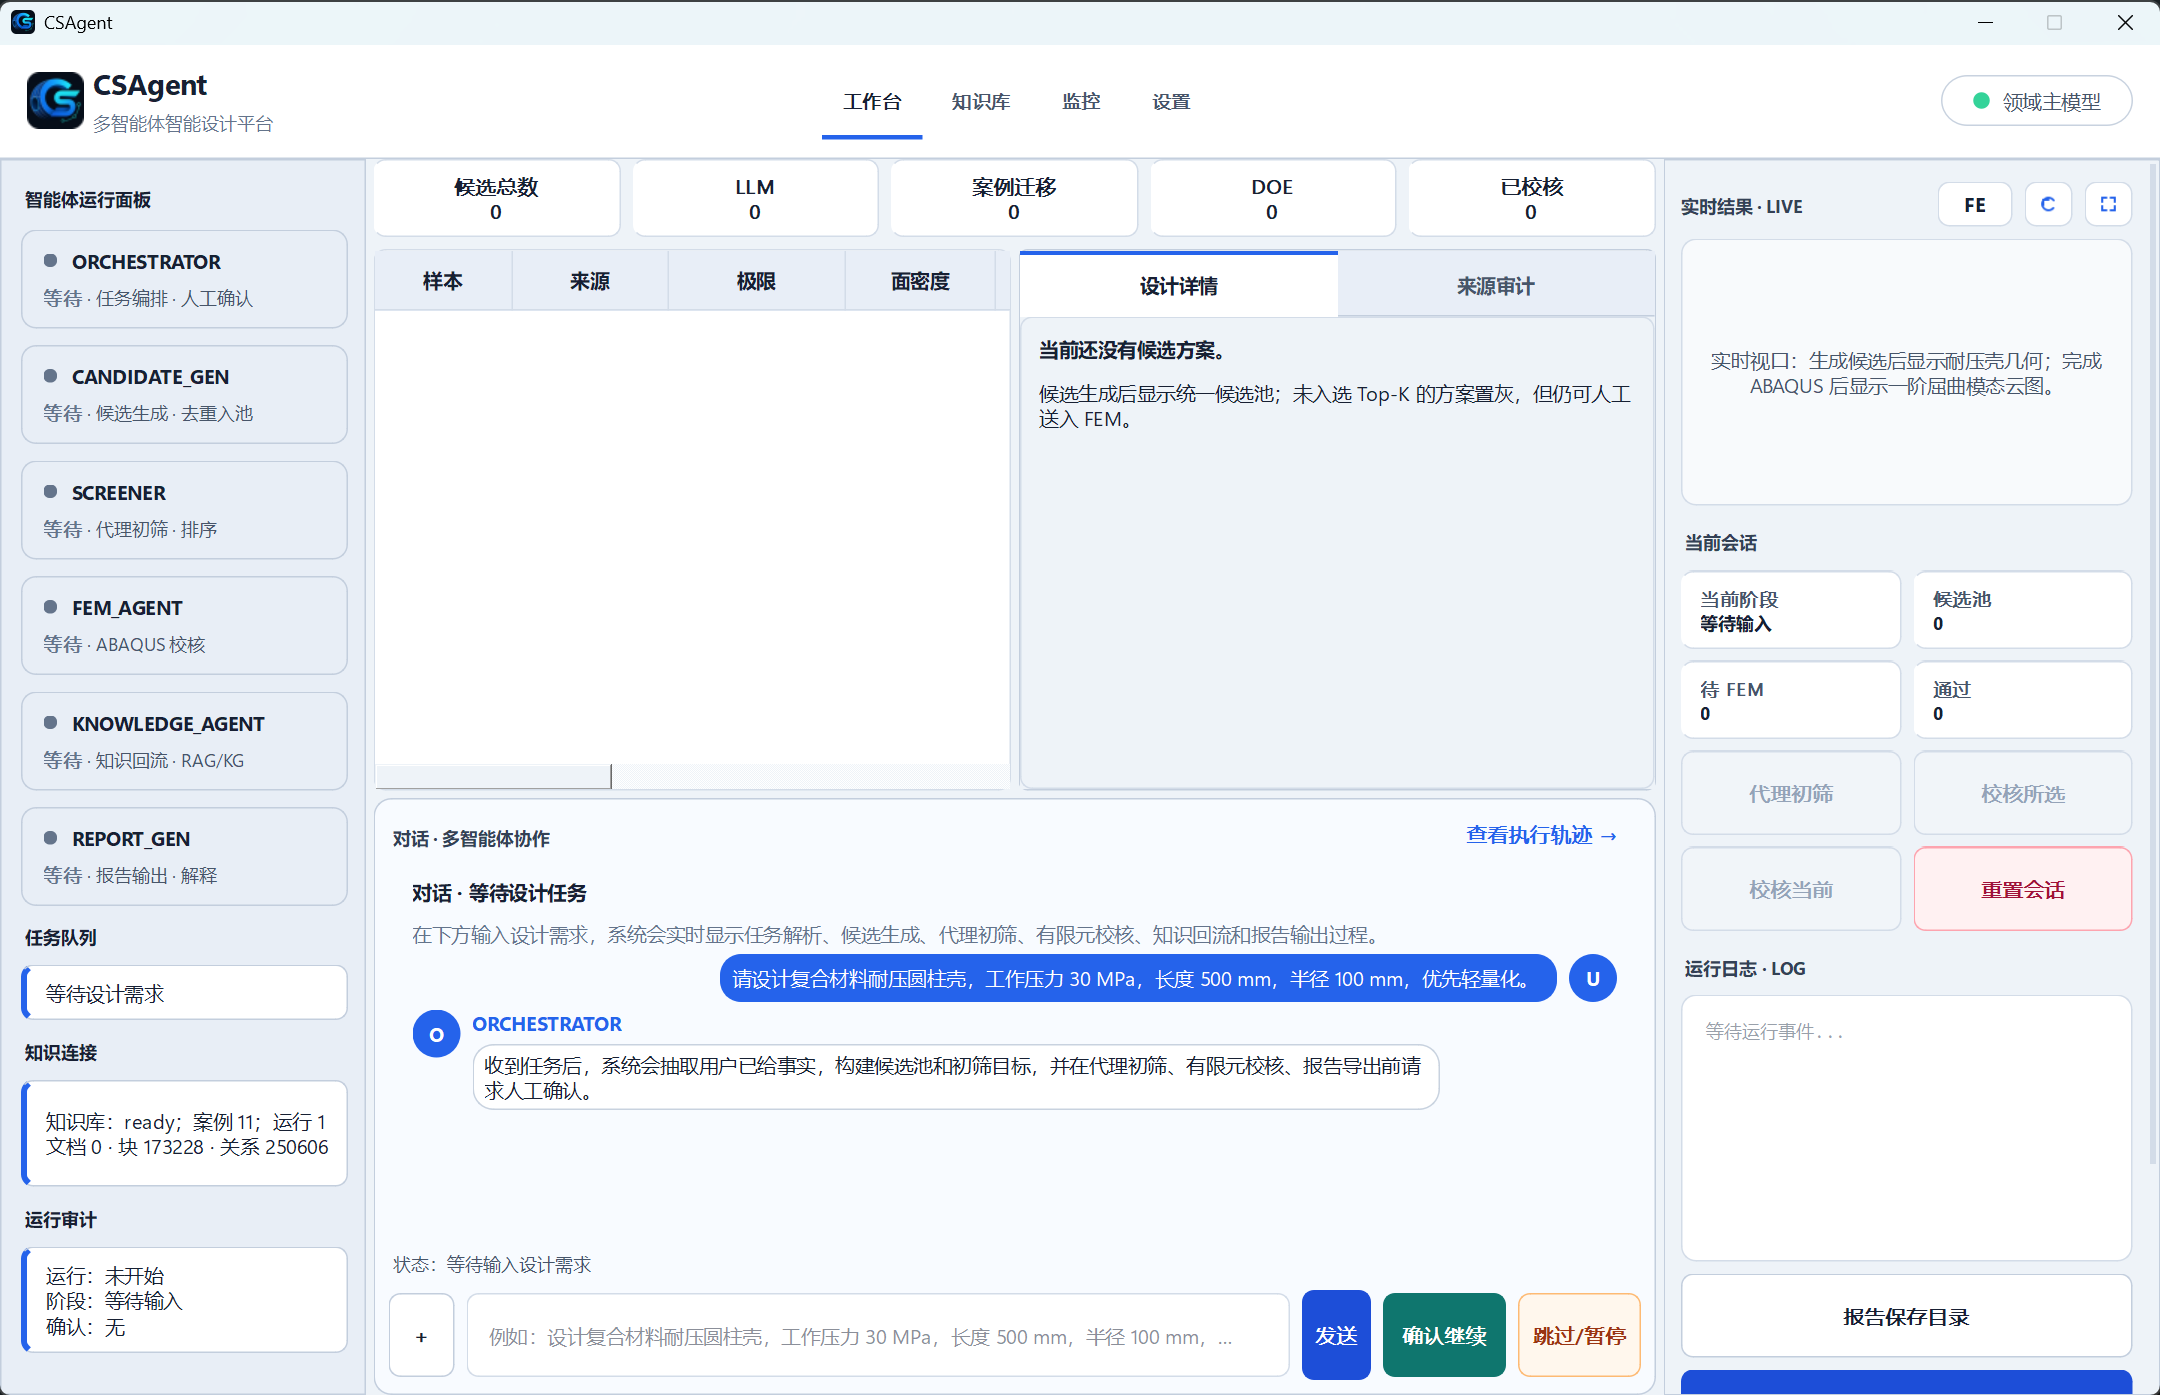
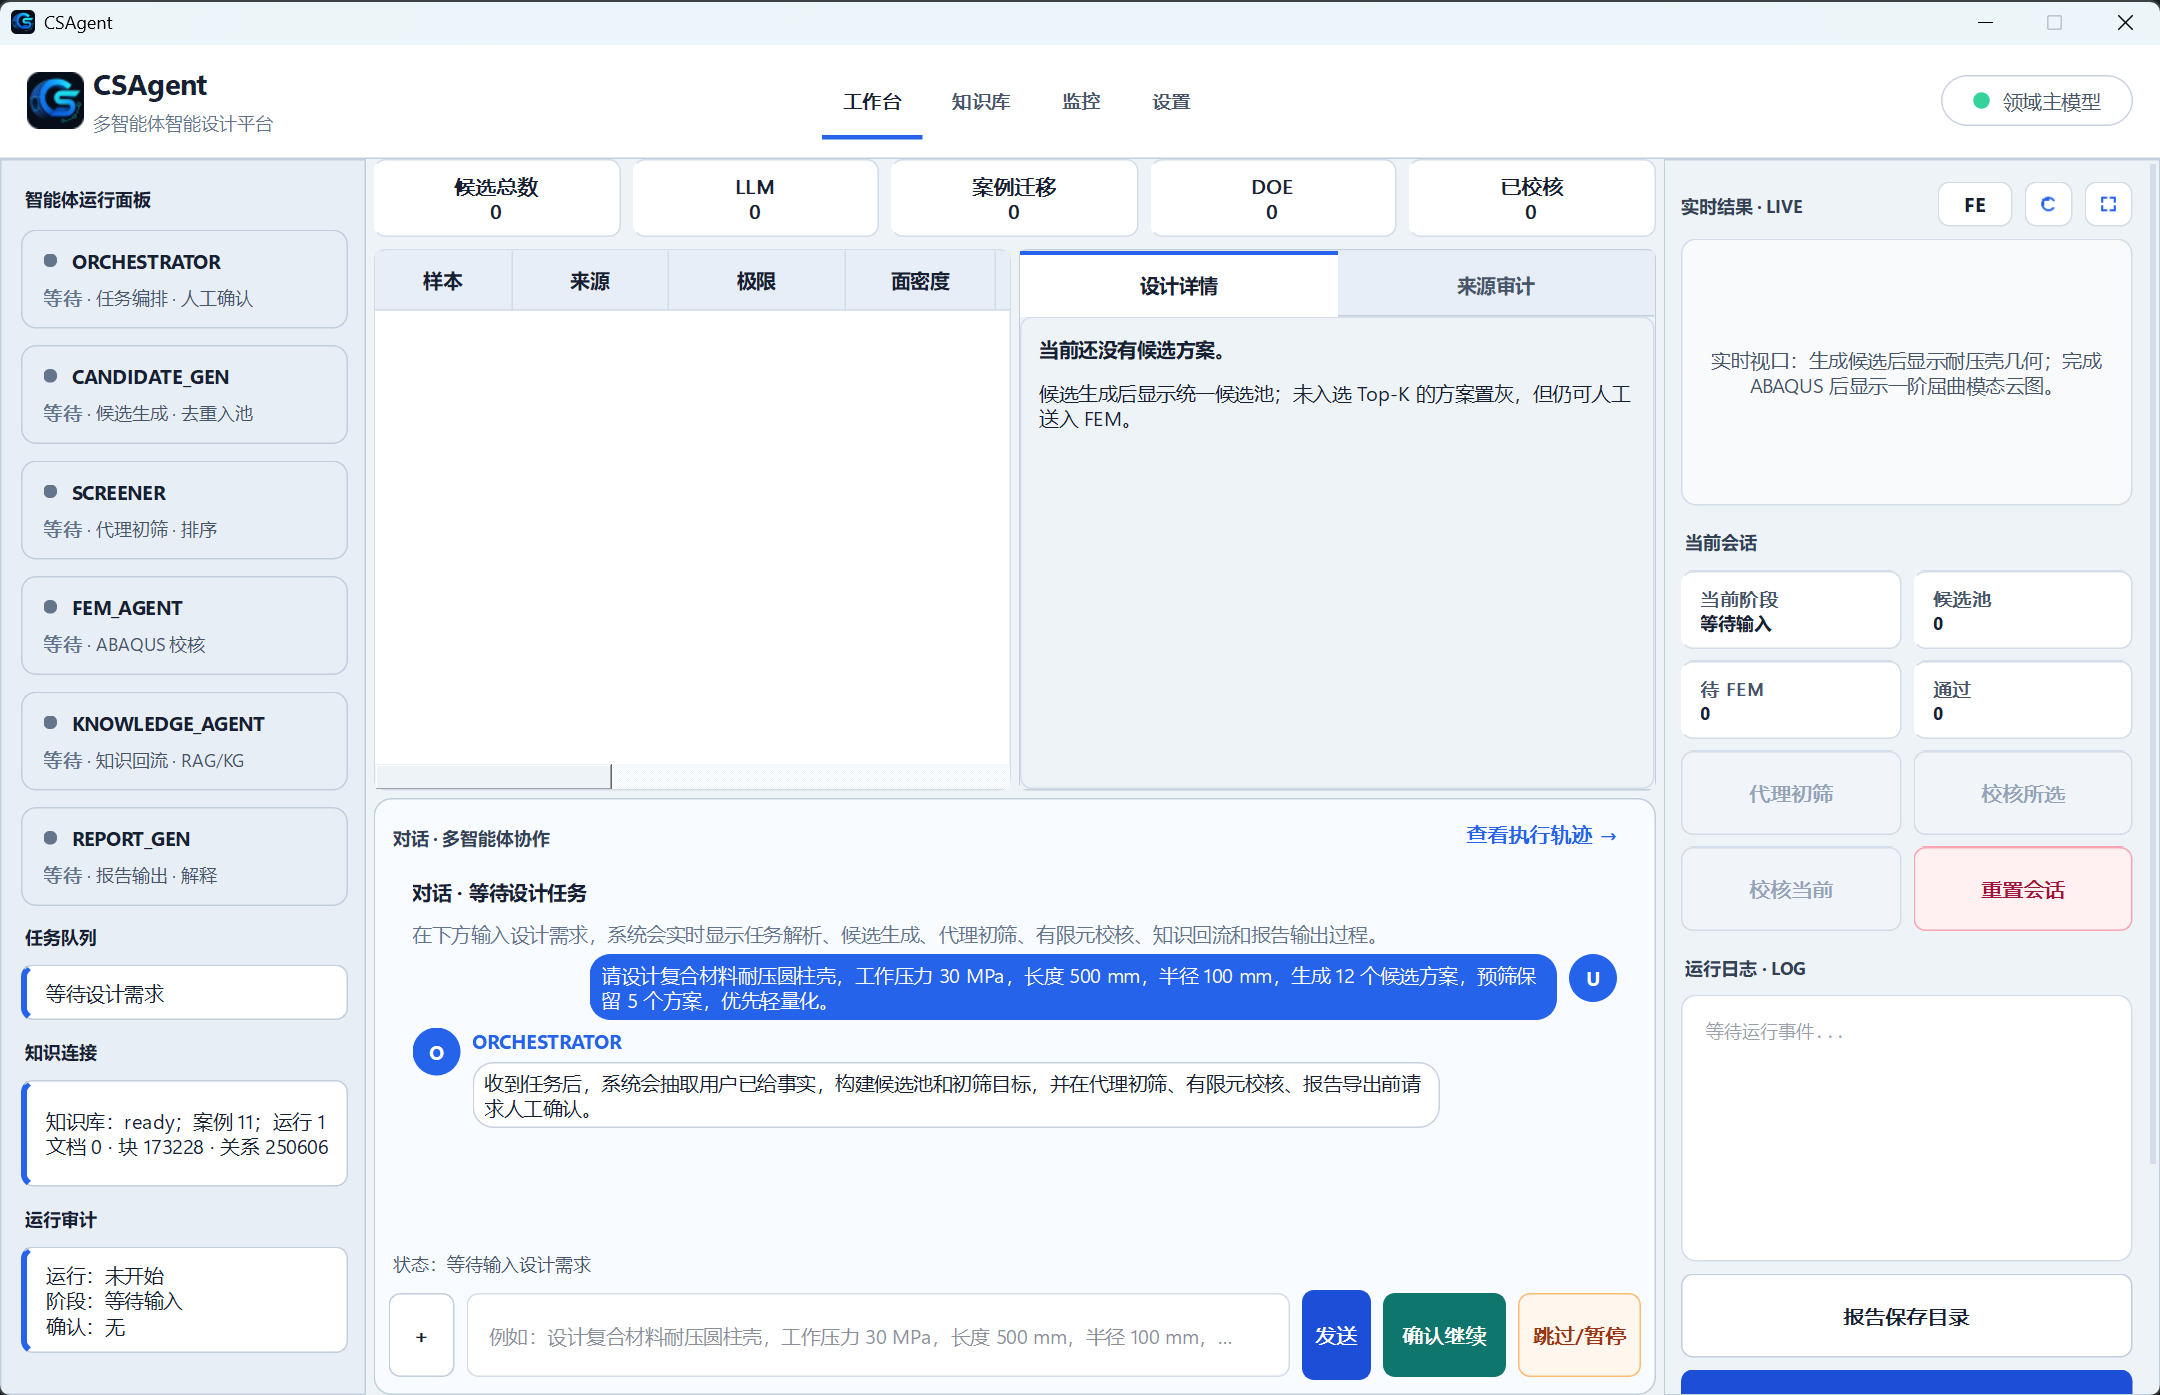
完善默认需求模板并精简缺陷参数说明

Changed region(s): [[0.1861, 0.6781, 0.7444, 0.8014]]

diff --git a/gui/i18n.py b/gui/i18n.py
@@ -68,10 +68,10 @@ TEXT: dict[str, dict[str, str]] = {
         "status.snapshot_failed": "状态：运行状态恢复失败：{error}",
         "status.snapshot_loaded": "状态：已恢复运行状态 {run_id}",
         "status.knowledge_refreshed": "状态：知识库视图已刷新",
-        "input.placeholder": "例如：设计复合材料耐压圆柱壳，工作压力 30 MPa，长度 500 mm，半径 100 mm，优先轻量化。",
+        "input.placeholder": "例如：设计复合材料耐压圆柱壳，工作压力 30 MPa，长度 500 mm，半径 100 mm，生成 12 个候选方案，预筛保留 5 个方案，优先轻量化。",
         "chat.empty": "在下方输入设计需求，系统会实时显示任务解析、候选生成、代理初筛、有限元校核、知识回流和报告输出过程。",
         "chat.empty.title": "对话 · 等待设计任务",
-        "chat.empty.user_prompt": "请设计复合材料耐压圆柱壳，工作压力 30 MPa，长度 500 mm，半径 100 mm，优先轻量化。",
+        "chat.empty.user_prompt": "请设计复合材料耐压圆柱壳，工作压力 30 MPa，长度 500 mm，半径 100 mm，生成 12 个候选方案，预筛保留 5 个方案，优先轻量化。",
         "chat.empty.agent_title": "ORCHESTRATOR",
         "chat.empty.agent_body": "收到任务后，系统会抽取用户已给事实，构建候选池和初筛目标，并在代理初筛、有限元校核、报告导出前请求人工确认。",
         "button.start": "发送",
@@ -220,10 +220,10 @@ TEXT: dict[str, dict[str, str]] = {
         "status.snapshot_failed": "Status: failed to restore run state: {error}",
         "status.snapshot_loaded": "Status: restored run state {run_id}",
         "status.knowledge_refreshed": "Status: knowledge view refreshed",
-        "input.placeholder": "Design a composite pressure hull: working pressure 30 MPa, length 500 mm, radius 100 mm, minimum mass.",
+        "input.placeholder": "Design a composite pressure hull: working pressure 30 MPa, length 500 mm, radius 100 mm, generate 12 candidates, keep 5 after screening, minimum mass.",
         "chat.empty": "Enter a design request below. Task parsing, candidate generation, surrogate screening, FEM verification, knowledge persistence, and reporting will appear here in real time.",
         "chat.empty.title": "Conversation · Waiting for Design Task",
-        "chat.empty.user_prompt": "Design a composite pressure hull: working pressure 30 MPa, length 500 mm, radius 100 mm, minimum mass.",
+        "chat.empty.user_prompt": "Design a composite pressure hull: working pressure 30 MPa, length 500 mm, radius 100 mm, generate 12 candidates, keep 5 after screening, minimum mass.",
         "chat.empty.agent_title": "ORCHESTRATOR",
         "chat.empty.agent_body": "After receiving a task, the system extracts user facts, builds the candidate pool and screening target, then asks for human confirmation before screening, FEM verification, and report export.",
         "button.start": "Send",

diff --git a/tests/test_pipeline_contracts.py b/tests/test_pipeline_contracts.py
@@ -154,7 +154,7 @@ def test_current_designs_fix_imperfection_without_rewriting_case_source(monkeypa
         fem_input = OrchestratorAgent().prepare_candidate_for_fem(task, migrated)
         adjusted = FEMAgent().apply_adjustment(fem_input, failure, 0)
         assert adjusted["geometry"]["imperfection_ratio"] == 0.008
-    with pytest.raises(ValueError, match="不作为设计变量"):
+    with pytest.raises(ValueError, match="初始几何缺陷比统一采用 0.008"):
         TaskParser().parse_instruction("工作压力 12 MPa，缺陷比 0.005")
 
 
@@ -268,7 +268,8 @@ def test_candidate_prompt_separates_user_facts_from_system_constraints(monkeypat
     assert "T700/Epoxy" not in user_fact_section
     assert "500.0" not in user_fact_section
     assert "T700/Epoxy" in user_prompt
-    assert "初始几何缺陷比固定为 0.008" in user_prompt
+    assert "项目计算采用 0.008" in user_prompt
+    assert "模型提案值单独记录" in user_prompt
     assert "结构化任务 JSON" not in user_prompt
     assert "不要输出 JSON" in system_prompt
     assert "结构性能依据和制造/缺陷风险依据" in user_prompt
@@ -603,6 +604,8 @@ def test_llm_candidates_are_extracted_from_engineering_natural_answer(monkeypatc
     assert candidates[0]["geometry"]["thickness_mm"] == 11.0
     assert candidates[0]["geometry"]["imperfection_ratio"] == 0.008
     assert candidates[0]["provenance"]["proposed_imperfection_ratio"] == 0.005
+    assert candidates[1]["geometry"]["imperfection_ratio"] == 0.008
+    assert candidates[1]["provenance"]["proposed_imperfection_ratio"] == 0.006
     assert candidates[0]["geometry"]["alpha_deg"] == 35.0
     assert candidates[0]["geometry"]["beta_deg"] == 65.0
     assert "S01" in candidates[0]["origin_summary"]
@@ -1283,7 +1286,7 @@ def test_report_summarizes_provenance_without_internal_layup_dump(monkeypatch):
     text = ReportGenAgent()._render_markdown(task, results, candidates)
     assert "source_layup" not in text and "angles_deg" not in text
     assert "来源提案缺陷比：0.003" in text
-    assert "固定分析条件为 0.008" in text
+    assert "初始几何缺陷比：0.008" in text
 
 
 def test_report_without_fem_never_claims_final_recommendation(monkeypatch, tmp_path):

diff --git a/agents/candidate_gen.py b/agents/candidate_gen.py
@@ -240,7 +240,7 @@ class CandidateGenAgent(BaseAgent):
             f"半径 R(mm) 必须为数值；参考尺寸只表示设计中心，候选值仍需在 {range_text('radius_mm')} 内提出；只有固定几何约束才必须沿用",
             f"厚度 t(mm) 必须为数值；参考尺寸只表示设计中心，候选值仍需在 {range_text('thickness_mm')} 内提出；只有固定几何约束才必须沿用",
             f"alpha(deg) 与 beta(deg) 必须为 {range_text('alpha_deg')} 内的两个铺层角建议值",
-            f"初始几何缺陷比固定为 {fixed_imperfection_ratio():g}（{fixed_imperfection_ratio() * 1000:g}‰），属于分析条件，不参与设计变量搜索",
+            f"初始几何缺陷比：项目计算采用 {fixed_imperfection_ratio():g}（{fixed_imperfection_ratio() * 1000:g}‰），模型提案值单独记录",
             "铺层形式使用 [90_4/(±alpha/±beta)_8/90_4] 或 [(±alpha/±beta)_10] 这一类可解析格式",
         ]
 
@@ -668,7 +668,7 @@ class CandidateGenAgent(BaseAgent):
                     if not usable_items:
                         self._record_llm_generation_diagnostic(
                             "field_validation",
-                            "候选缺少材料、几何、铺层角或缺陷比等完整参数",
+                            "候选缺少材料、几何尺寸或铺层角等必要参数",
                             answer=answer,
                             parsed_count=len(items),
                             usable_count=0,
@@ -687,7 +687,7 @@ class CandidateGenAgent(BaseAgent):
                         retry_hint = (
                             "\n\n上一轮候选未通过项目参数域规则，原因："
                             f"{reasons or '未给出有效规则诊断'}。"
-                            "请重新输出候选表，确保长度、半径、厚度、alpha、beta 和缺陷比均在系统候选字段约束范围内。"
+                            "请重新输出候选表，确保长度、半径、厚度、alpha 和 beta 均在系统候选字段约束范围内。"
                         )
                         self._record_llm_generation_diagnostic(
                             "rule_check",

diff --git a/agents/report_gen.py b/agents/report_gen.py
@@ -255,8 +255,7 @@ class ReportGenAgent(BaseAgent):
             "results": [{key: value for key, value in result.items() if key != "design_verdict_basis"}
                         for result in summary.get("results", [])],
             "aggregate": {"overall": overall, "result_count": result_count, "passed_count": passed_count},
-            "analysis_conditions": {"imperfection_role": "固定分析条件，不是设计变量或制造验收阈值",
-                                    "imperfection_ratios": sorted({item["imperfection_ratio"] for item in summary.get("all_candidates", [])
+            "analysis_conditions": {"imperfection_ratios": sorted({item["imperfection_ratio"] for item in summary.get("all_candidates", [])
                                                                     if item.get("imperfection_ratio") is not None})},
             "interpretation_constraints": [
                 "数值由报告模板输出；解释不复述数值不代表原始数据缺失。",
@@ -615,7 +614,7 @@ class ReportGenAgent(BaseAgent):
                 f"- 初始几何缺陷比：{geometry.get('imperfection_ratio')}",
                 f"- 生成提案理由（原文）：{candidate.get('rationale') or '生成记录未提供额外理由，不作推断。'}",
                 f"- 来源追踪：{candidate.get('origin_summary') or '见候选生成记录。'}",
-                *([f"- 来源提案缺陷比：{proposed_defect}；本方案采用的固定分析条件为 {geometry.get('imperfection_ratio')}。"]
+                *([f"- 来源提案缺陷比：{proposed_defect}"]
                   if proposed_defect is not None and proposed_defect != geometry.get("imperfection_ratio") else []),
             ])
         lines.extend(["", "## 代理预筛方案与筛选理由", ""])

diff --git a/tests/test_i18n.py b/tests/test_i18n.py
@@ -2,12 +2,15 @@ from __future__ import annotations
 
 import os
 
+import pytest
+
 os.environ.setdefault("QT_QPA_PLATFORM", "offscreen")
 
 from PyQt6.QtWidgets import QApplication
 
 from gui.i18n import LocaleManager
 from gui.main_window import MainWindow
+from core.task_parser import TaskParser
 
 
 def _app() -> QApplication:
@@ -33,6 +36,20 @@ def test_locale_manager_persists_language(tmp_path) -> None:
     assert reloaded.language == "en"
     assert reloaded.theme == "light"
     assert reloaded.text("app.title") == "CSAgent"
+
+
+@pytest.mark.parametrize("language", ["zh", "en"])
+def test_default_templates_include_dimensions_and_quantities(tmp_path, language) -> None:
+    locale = LocaleManager(tmp_path / "ui_settings.json")
+    locale.set_language(language)
+    parser = TaskParser()
+    for key in ("input.placeholder", "chat.empty.user_prompt"):
+        task = parser.parse_instruction(locale.text(key))["task"]
+        assert task["candidate_generation_preferences"]["total_candidates"] == 12
+        assert task["screening_preferences"]["top_k_candidates"] == 5
+        assert task["geometry_envelope"]["length_mm"] == [500, 500]
+        assert task["geometry_envelope"]["radius_mm"] == [100, 100]
+        assert task["geometry_envelope"]["imperfection_ratio"] == [0.008, 0.008]
 
 
 def test_main_window_switches_primary_shell_language(monkeypatch, tmp_path) -> None:

diff --git a/tests/test_main_window.py b/tests/test_main_window.py
@@ -923,7 +923,7 @@ def test_manual_screen_asks_for_missing_quantity_before_worker(monkeypatch) -> N
         app.processEvents()
 
 
-def test_loaded_example_specifies_dimensions_and_waits_for_quantities(monkeypatch) -> None:
+def test_loaded_example_specifies_dimensions_and_quantities(monkeypatch) -> None:
     monkeypatch.setenv("CSDM_cph_DISABLE_LLM_AUTO", "1")
     app = _app()
     window = MainWindow()
@@ -934,8 +934,8 @@ def test_loaded_example_specifies_dimensions_and_waits_for_quantities(monkeypatc
         assert "工作压力 30 MPa" in text
         assert "极限压力" not in text
         task = TaskParser().parse_instruction(text)["task"]
-        assert task["candidate_generation_preferences"]["total_candidates"] is None
-        assert task["screening_preferences"]["top_k_candidates"] is None
+        assert task["candidate_generation_preferences"]["total_candidates"] == 12
+        assert task["screening_preferences"]["top_k_candidates"] == 5
         assert task["geometry_envelope"]["length_mm"] == [500, 500]
         assert task["geometry_envelope"]["radius_mm"] == [100, 100]
         assert task["geometry_envelope"]["thickness_mm"][0] < task["geometry_envelope"]["thickness_mm"][1]

diff --git a/agents/fem_agent.py b/agents/fem_agent.py
@@ -233,12 +233,12 @@ class FEMAgent(BaseAgent):
             adjustment["strategy"] = "增大壳体网格尺寸以绕开局部畸变"
         elif failure_type == "geometry_issue":
             geometry["thickness_mm"] = round(min(max(geometry["thickness_mm"] + 0.5, 5.0), 20.0), 3)
-            adjustment["strategy"] = "提高壁厚，保持初始几何缺陷条件不变"
+            adjustment["strategy"] = "提高壁厚"
         elif failure_type == "convergence_fail":
             adjusted.setdefault("analysis", {})
             adjusted["analysis"]["buckling_modes"] = int(adjusted["analysis"].get("buckling_modes", 8)) + 4
             geometry["thickness_mm"] = round(min(geometry["thickness_mm"] + 0.8, 20.0), 3)
-            adjustment["strategy"] = "增加特征值搜索规模并提高壁厚，保持初始几何缺陷条件不变"
+            adjustment["strategy"] = "增加特征值搜索规模并提高壁厚"
         elif failure_type == "pressure_negative":
             adjusted.setdefault("analysis", {})
             adjusted["analysis"]["buckling_modes"] = max(int(adjusted["analysis"].get("buckling_modes", 8)), 12) + 4

diff --git a/agents/orchestrator.py b/agents/orchestrator.py
@@ -104,7 +104,7 @@ class OrchestratorAgent(BaseAgent):
     def _validate_analysis_conditions(candidate: Dict) -> None:
         expected = fixed_imperfection_ratio()
         if (candidate.get("geometry") or {}).get("imperfection_ratio") != expected:
-            raise ValueError(f"初始几何缺陷比必须为 {expected:g}；请按固定分析条件生成候选，不能直接改写已求解案例。")
+            raise ValueError(f"初始几何缺陷比必须为 {expected:g}。")
 
     def prepare_candidates_for_fem(self, task: Dict, candidates: List[Dict]) -> List[Dict]:
         """为同一批有限元样本生成互不重复的正式编号。"""

diff --git a/core/task_parser.py b/core/task_parser.py
@@ -233,7 +233,7 @@ class TaskParser:
         fixed_defect = fixed_imperfection_ratio()
         specified_defect = values.get("imperfection_ratio")
         if specified_defect is not None and abs(specified_defect - fixed_defect) > 1e-9:
-            raise ValueError(f"初始几何缺陷比统一采用 {fixed_defect:g}（{fixed_defect * 1000:g}‰），不作为设计变量。")
+            raise ValueError(f"初始几何缺陷比统一采用 {fixed_defect:g}（{fixed_defect * 1000:g}‰）。")
         geometry["imperfection_ratio"] = [fixed_defect, fixed_defect]
         return normalize_geometry_envelope(geometry)
 

diff --git a/gui/candidate_widget.py b/gui/candidate_widget.py
@@ -417,7 +417,7 @@ class CandidateWidget(QWidget):
             "<h4>几何设计参数</h4><ul>"
             f"{geometry_items}</ul>"
             "<h4>分析条件</h4>"
-            f"<p>初始几何缺陷比：{_format_number(geometry.get('imperfection_ratio'), 6)}；不参与设计变量搜索。</p>"
+            f"<p>初始几何缺陷比：{_format_number(geometry.get('imperfection_ratio'), 6)}</p>"
             "<h4>材料系统</h4><ul>"
             f"{material_items}</ul>"
             "<h4>载荷与边界</h4><ul>"

diff --git a/core/config_loader.py b/core/config_loader.py
@@ -37,7 +37,7 @@ def load_param_ranges() -> Dict[str, Any]:
 
 
 def fixed_imperfection_ratio() -> float:
-    """候选设计统一采用的初始几何缺陷比，不属于优化变量。"""
+    """读取候选采用的初始几何缺陷比。"""
     value = float(load_param_ranges()["analysis_assumptions"]["imperfection_ratio"])
     bounds = load_param_ranges()["geometry"]["imperfection_ratio"]
     if not float(bounds["min"]) <= value <= float(bounds["max"]):
